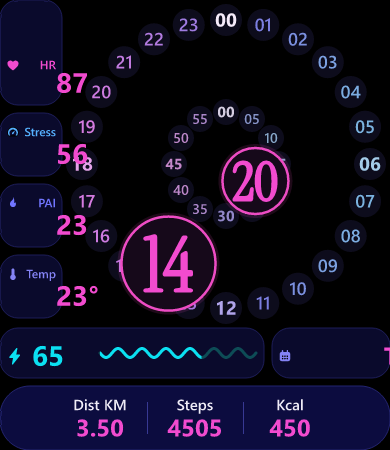
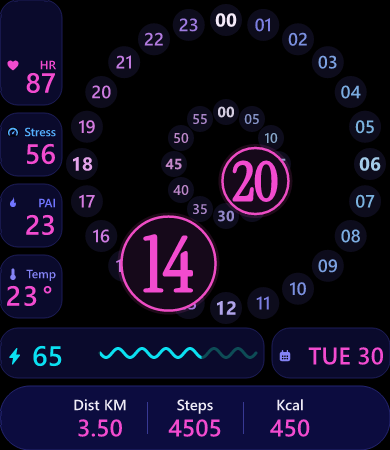
fix: the cover image had drifted from the face
preview_tN.png is what the watchface list and the theme carousel show, and
the generator draws it rather than the widgets — so it is a second
implementation of the layout, and it had drifted. It kept its own copy of
the value placement, missed the switch to right-aligned column readings, and
shipped a cover with every number hanging outside its card. No render of the
face itself could show this.

The immediate cause was a duplicate key: `anchor: right ? 'end' : 'start'`
followed by `anchor: 'start'` in the same object literal. JavaScript keeps
the last one, so values were left-anchored at the right edge of their card.

Fixed properly rather than locally. The widget boxes are computed once by
layoutSlots(), emitted to layout.js for the runtime and used by previewSvg,
so the two cannot diverge. The temperature is now drawn from glyph metrics
in the preview too, because the runtime renders it as a TEXT_IMG of
fixed-width images and kerned text lands 5px off.

New tools/check-preview.cjs compares each cover against a harness render at
the preview's own sample time, per reading, inside the widget's own box.
Counting differing pixels does not work for this — misplaced readings and
antialiasing both land in single digits. It compares ink centroid and mass
instead: 0px when correct, 55-84% of the ink missing when not. Verified by
reintroducing the bug and confirming it fails.

diff --git a/.claude/skills/amazfit-bip6-watchface/SKILL.md b/.claude/skills/amazfit-bip6-watchface/SKILL.md
@@ -768,6 +768,38 @@ Content still needs the radius, for three things: how far down a corner card's
 first row has to start, how far in a bottom bar's readings have to sit, and the
 assertion that catches the ones that do not.
 
+### The cover is a second implementation of your layout
+
+`preview_tN.png` is what the watchface list and the theme carousel show, and it
+is drawn by the generator, not by the widgets. That makes it a parallel
+implementation of the same layout — and it will drift, silently, because no
+render of the face itself can reveal it. Here it kept its own copy of the value
+placement, missed the switch to right-aligned column readings, and shipped a
+cover with every number hanging outside its card.
+
+Two rules keep it honest:
+
+1. **Compute the widget boxes once.** Emit them into `layout.js` for the runtime
+   *and* draw the preview from the same array. Recomputing is the drift.
+2. **Draw each reading the way its widget draws it.** A `TEXT_IMG` lays one
+   fixed-width glyph image per character; kerned text lands about 5px off from
+   it. Same box is not enough — same method.
+
+`tools/check-preview.cjs` diffs each cover against a harness render at the
+preview's own sample time, per reading, inside the box the runtime gives that
+widget.
+
+**Do not measure this by counting differing pixels.** That was the first
+attempt and it fails: misplaced readings changed 2.7% of the image against a
+1.3% baseline, and even per-box it was 11-13% against a 3-6% noise floor from
+antialiasing. Compare the **ink centroid and ink mass** in each box instead —
+"did this move" is the actual question, and the answer separates cleanly:
+0px shift when correct, 55-84% of the ink simply gone when not.
+
+Verify the check fires. Reintroduce the bug, confirm it fails, restore. An
+assertion that has never failed is not known to work — the pixel-counting
+version passed happily on a build that was visibly broken.
+
 ### Check against the mask, not against your model
 
 A fitted radius is a model of the glass. The screenshot's alpha channel *is*
